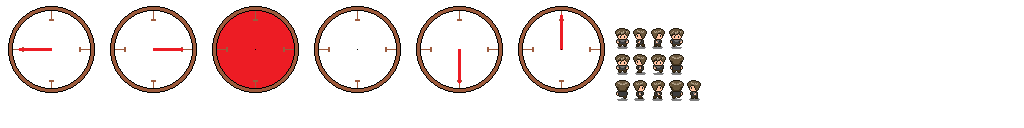
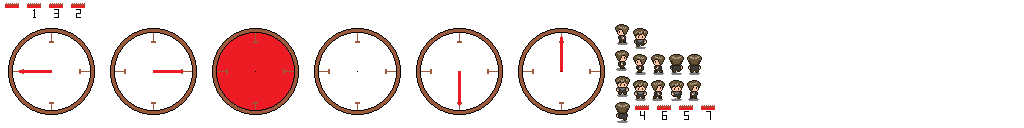
Add calendar assets and clean up files

Changed region(s): [[0.0, 0.0312, 0.7188, 0.9688]]

diff --git a/core/src/com/heslingtonhustle/state/Clock.java b/core/src/com/heslingtonhustle/state/Clock.java
@@ -1,13 +1,15 @@
 package com.heslingtonhustle.state;
 
-import com.badlogic.gdx.Gdx;
-
 public class Clock {
+    private float MAX_TIME = 1000;  // This is the number of time units in a day.
+                                    // This doesn't really mean anything as the player cant do anything at night anyway
     private float speed;
     private float timeUnits;
+    private int day;
 
     public Clock() {
         timeUnits = 0;
+        day = 1;
         speed = 6; // Probably want this to be less
     }
 
@@ -24,9 +26,17 @@ public class Clock {
         }
     }
 
-    public void update(float delta) {
+    public void increaseTime(float delta) {
+        if (timeUnits >= MAX_TIME) {
+            return;
+        }
         timeUnits += delta * speed;
-//        Gdx.app.debug("DEBUG", "DELTA: "+delta);
+    }
+
+    public int incrementDay() {
+        timeUnits = 0;
+        day += 1;
+        return day;
     }
 
     public void increaseSpeed(int speedIncrease) {

diff --git a/core/src/com/heslingtonhustle/renderer/CharacterRenderer.java b/core/src/com/heslingtonhustle/renderer/CharacterRenderer.java
@@ -9,7 +9,7 @@ import com.heslingtonhustle.state.Action;
 import com.heslingtonhustle.state.Facing;
 
 public class CharacterRenderer {
-    private final textureManager characterTextures;
+    private final TextureManager characterTextures;
     private Sprite characterSprite;
     private TextureAtlas textureAtlas;
     private String textureRegionPrefix;
@@ -19,7 +19,7 @@ public class CharacterRenderer {
         this.textureAtlas = textureAtlas;
         this.textureRegionPrefix = textureRegionPrefix;
 
-        characterTextures = new textureManager();
+        characterTextures = new TextureManager();
         addCharacterTextures();
         characterSprite = new Sprite(characterTextures.retrieveTexture("idle-down"));
         characterSprite.setSize(width, height);

diff --git a/core/src/com/heslingtonhustle/renderer/TextureManager.java b/core/src/com/heslingtonhustle/renderer/TextureManager.java
@@ -6,17 +6,16 @@ import com.badlogic.gdx.graphics.g2d.Animation;
 import com.badlogic.gdx.graphics.g2d.TextureAtlas;
 import com.badlogic.gdx.graphics.g2d.TextureRegion;
 import com.badlogic.gdx.utils.Array;
-import com.badlogic.gdx.utils.Disposable;
 
 import java.util.HashMap;
 
-public class textureManager {
+public class TextureManager {
 
     private HashMap<String, Animation<TextureRegion>> animations;
     private HashMap<String, TextureRegion> staticTextures;
     private float animationTime;
 
-    public textureManager() {
+    public TextureManager() {
         animationTime = 0f;
         animations = new HashMap<String, Animation<TextureRegion>>();
         staticTextures = new HashMap<String, TextureRegion>();

diff --git a/core/src/com/heslingtonhustle/state/State.java b/core/src/com/heslingtonhustle/state/State.java
@@ -37,7 +37,7 @@ public class State {
             player.setPosition(previousPlayerPos);
         }
         player.setInBounds(mapManager.getCurrentMapWorldDimensions());
-        clock.update(timeDelta);
+        clock.increaseTime(timeDelta);
     }
 
     private void handleAction(Action action) {
